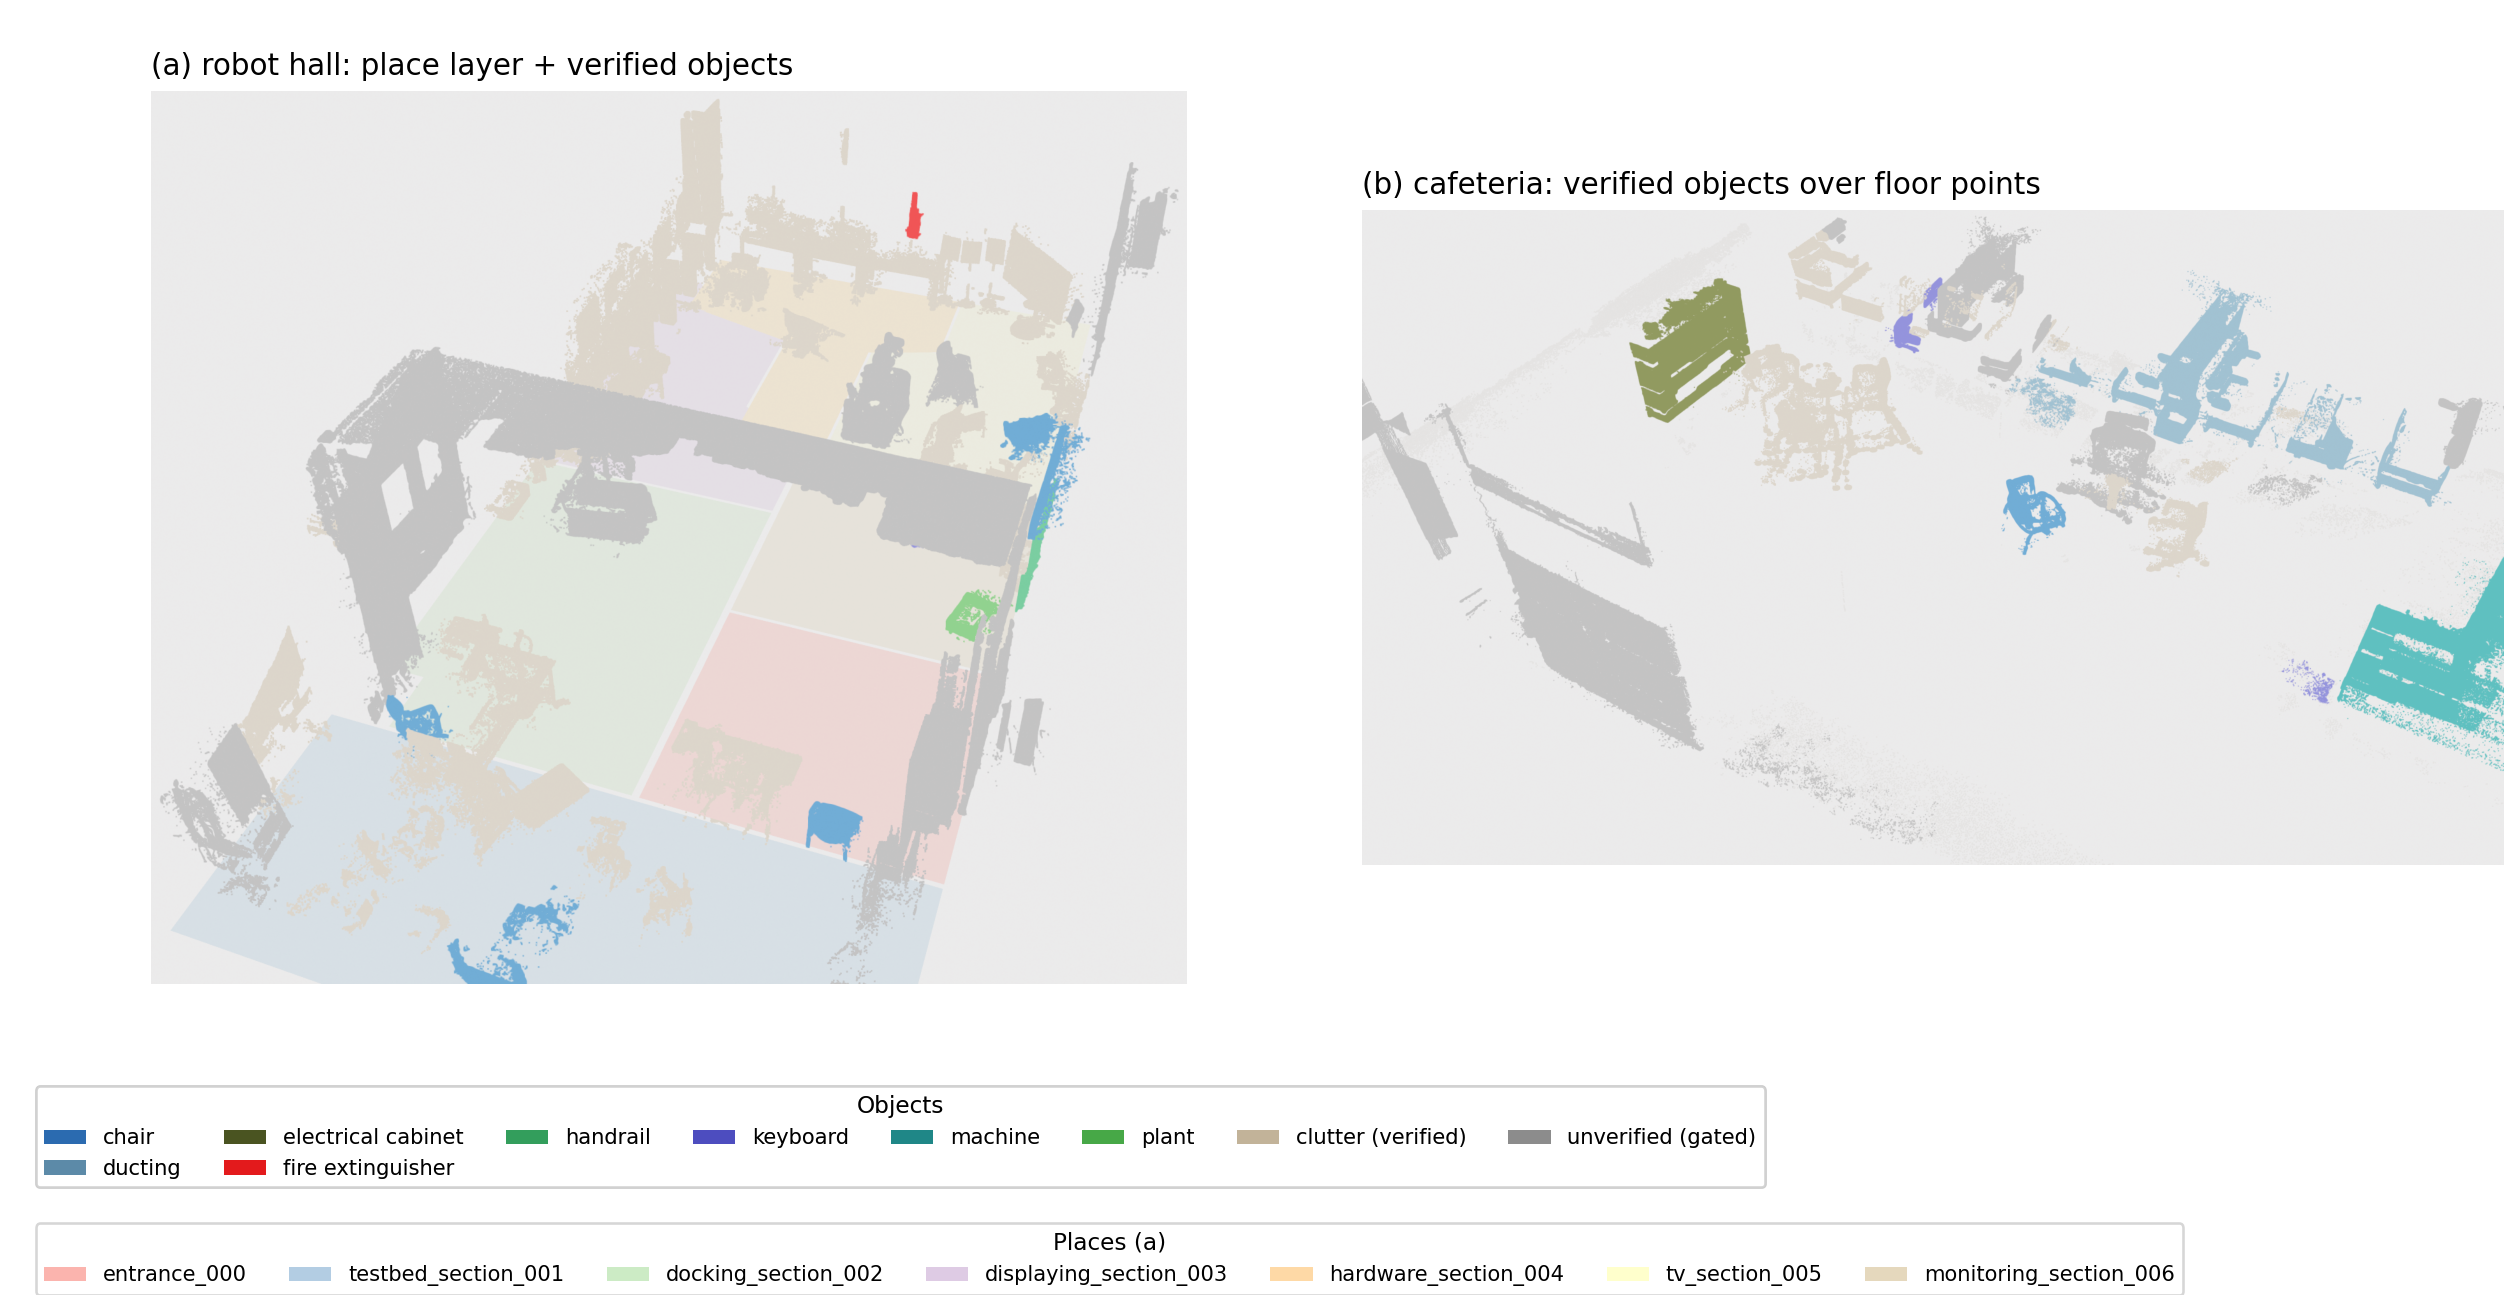
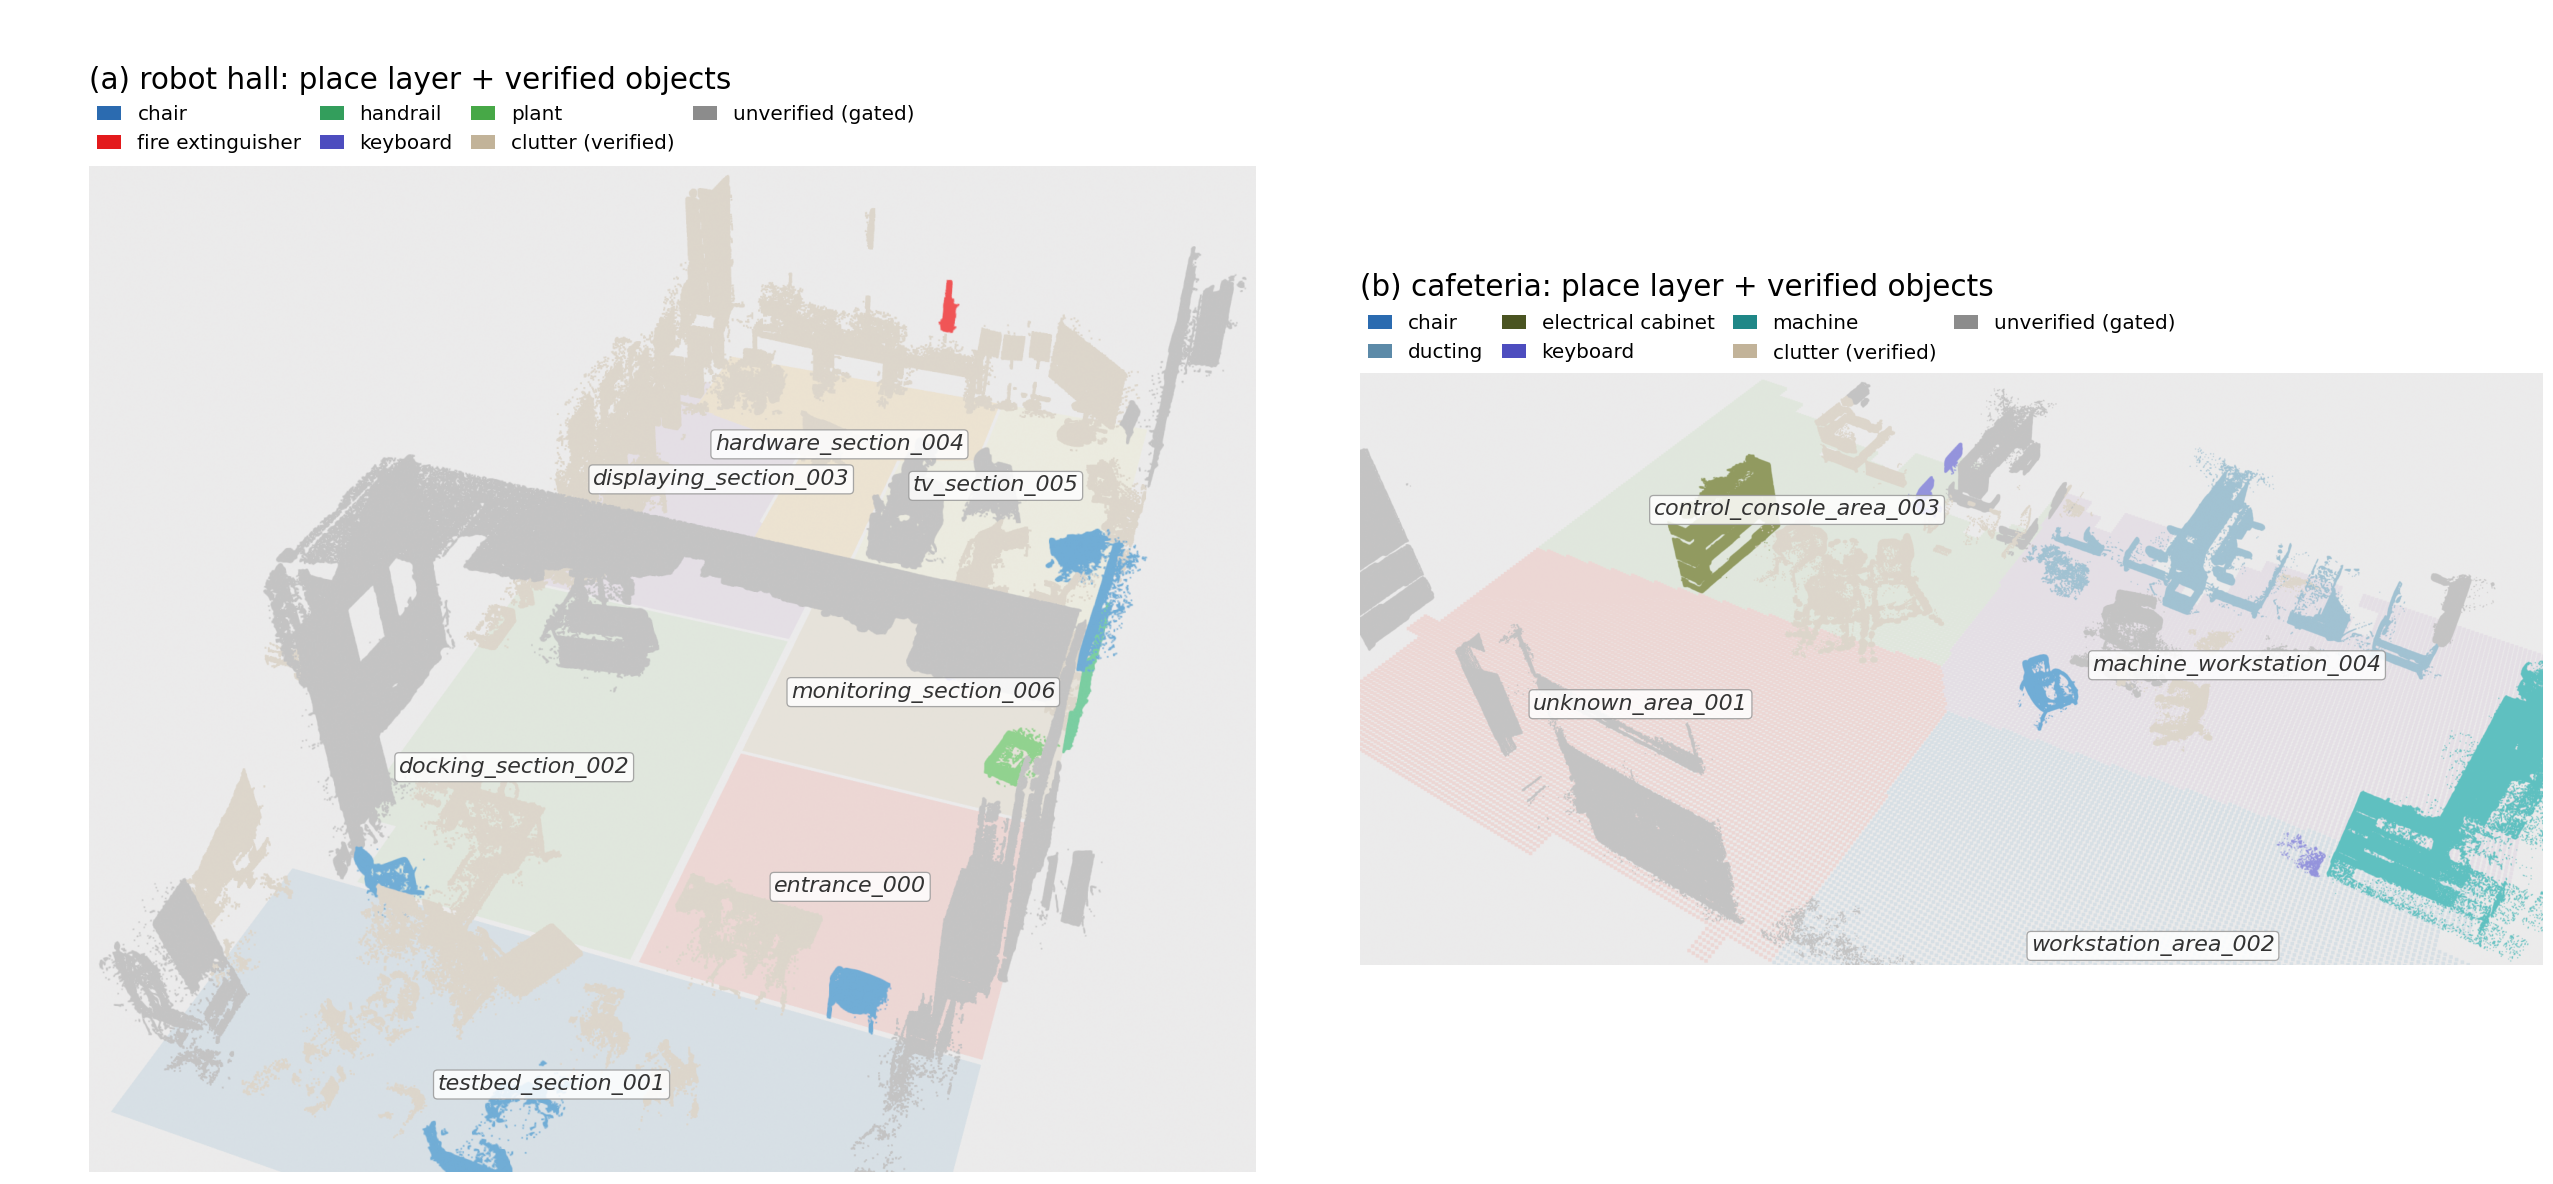
fig19 v2 (user feedback): per-panel legends above images, place-name labels projected onto both maps, cafe place layer added (SLIC over scan-synthesized grid, ring-named) — keyboard-phantom name propagation noted as third verifier-bounded naming case

diff --git a/docs/electronics2026/manuscript/sec3_overview.tex b/docs/electronics2026/manuscript/sec3_overview.tex
@@ -68,14 +68,18 @@ map itself.
 \centering
 \includegraphics[width=\linewidth]{fig19_semantic_map.png}
 \caption{The generated semantic map, visualized from the knowledge graph.
-(a)~Robot hall: SLIC place-layer regions (pastel floor polygons, named by
+(a)~Robot hall: SLIC place-layer regions (pastel floor, named by
 the LLM ring-code scheme of Sec.~\ref{sec:place}) with the room-scoped
 object clusters rendered as their full-resolution segmented points,
 colored by verified class; gray clusters are \texttt{unverified} and
 demoted at query time. (b)~The cafeteria stress scene under the same
-representation (no place layer; floor points shown for context)---the
-verified vending row (teal), planter partitions (olive), and chairs
-(blue) stand over the gated gray residue.}
+representation, its place layer derived by the identical SLIC recipe
+after synthesizing the occupancy grid from the scan's floor points (no
+SLAM run exists for this scene). Place naming is verifier-bounded here
+too: the keyboard phantoms of Sec.~\ref{sec:exp-ablation} pull two
+region names toward workstation/console semantics---the same
+label-propagation mechanism as the \texttt{staircase\_landing} case of
+Sec.~\ref{sec:exp-verify}.}
 \label{fig:semmap}
 \end{figure}
 
